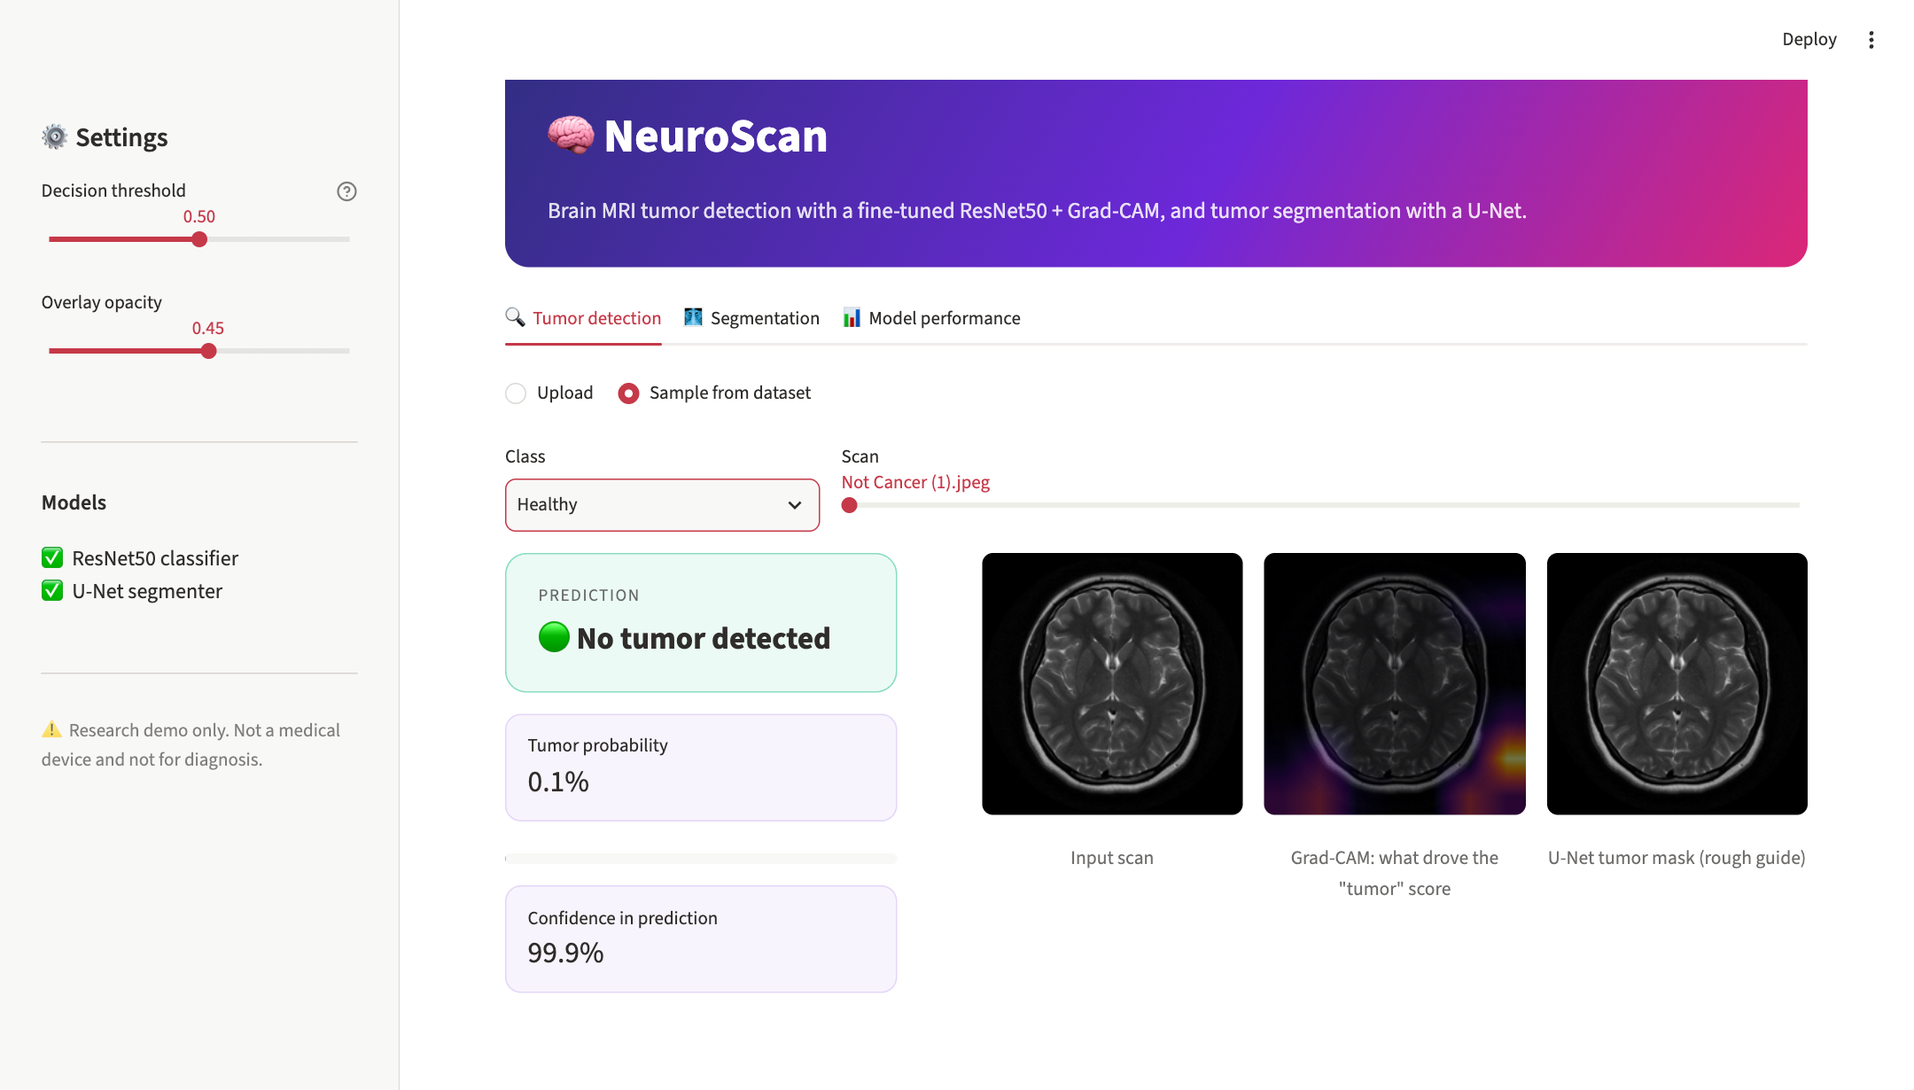
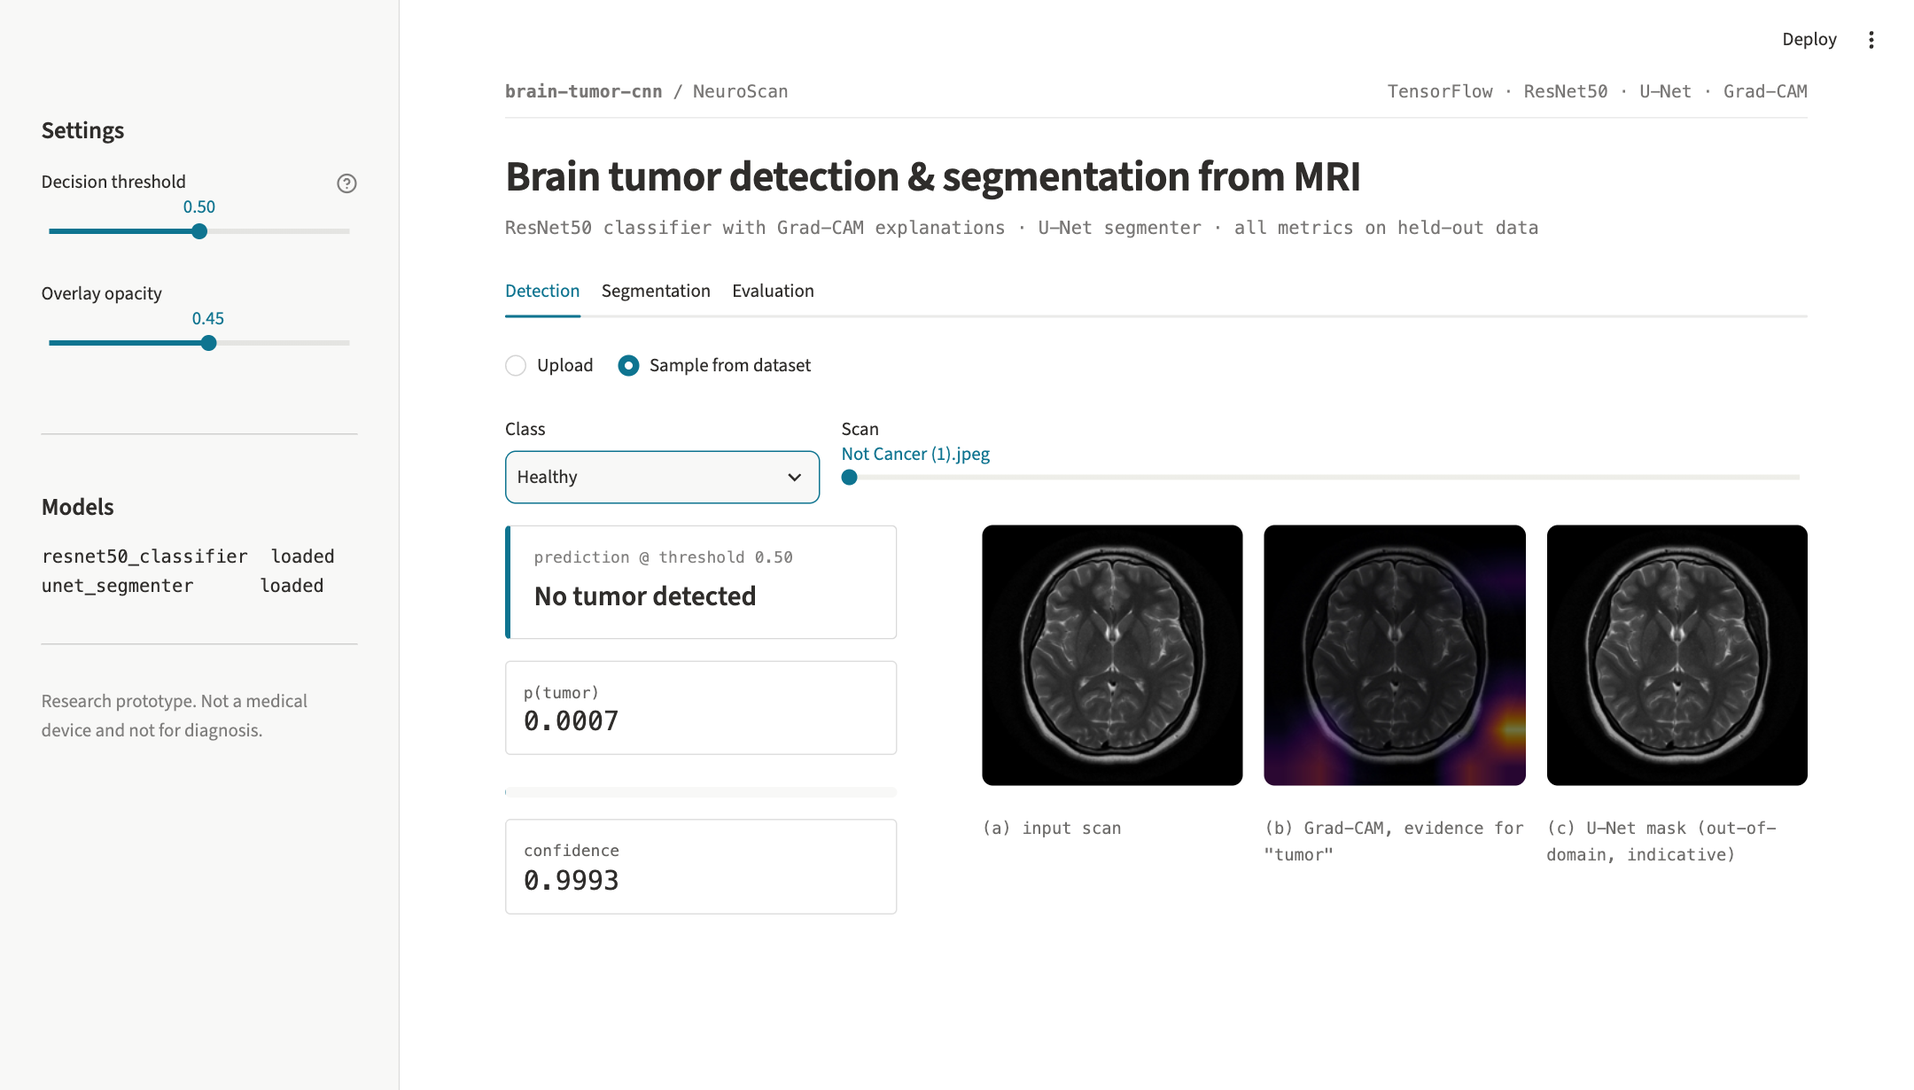
Restyle app and overview in a plain research-figure style
- Replace gradient header and emoji labels with a plain title, monospace
  metrics and lettered figure captions
- Draw masks as contours (expert white, U-Net cyan) instead of filled colormaps
- Teal accent theme via .streamlit/config.toml
- Rename tabs to Detection / Segmentation / Evaluation
- Regenerate app screenshots and overview image

diff --git a/app/streamlit_app.py b/app/streamlit_app.py
@@ -6,7 +6,7 @@ import matplotlib
 import numpy as np
 import streamlit as st
 import tensorflow as tf
-from PIL import Image
+from PIL import Image, ImageFilter
 
 ROOT = os.path.dirname(os.path.dirname(os.path.abspath(__file__)))
 sys.path.insert(0, ROOT)
@@ -18,30 +18,32 @@ UNET_PATH = os.path.join(ROOT, 'saved_models/unet_model.keras')
 RESULTS = os.path.join(ROOT, 'docs/results')
 SAMPLES = os.path.join(ROOT, 'data/download/Brain Tumor Data Set/Brain Tumor Data Set')
 LGG = os.path.join(ROOT, 'data/lgg/kaggle_3m')
+CYAN, WHITE = (34, 211, 238), (255, 255, 255)
 
-st.set_page_config(page_title='NeuroScan · Brain Tumor AI', page_icon='🧠', layout='wide')
-st.markdown("""
+st.set_page_config(page_title='NeuroScan: brain tumor detection and segmentation', layout='wide')
+MONO = '"SF Mono", "JetBrains Mono", Menlo, Consolas, monospace'
+st.markdown(f"""
 <style>
-  .block-container {padding-top: 2rem; max-width: 1250px;}
-  .hero {background: linear-gradient(120deg, #312e81 0%, #6d28d9 55%, #db2777 100%);
-         padding: 1.8rem 2rem; border-radius: 18px; color: white; margin-bottom: 1.2rem;}
-  .hero h1 {color: white; margin: 0; font-size: 2.2rem;}
-  .hero p {opacity: .85; margin: .4rem 0 0 0; font-size: 1.05rem;}
-  .verdict {border-radius: 16px; padding: 1.3rem 1.5rem; margin-bottom: 1rem; border: 1px solid;}
-  .verdict.tumor {background: rgba(219,39,119,.08); border-color: rgba(219,39,119,.45);}
-  .verdict.healthy {background: rgba(16,185,129,.08); border-color: rgba(16,185,129,.45);}
-  .verdict .label {font-size: .8rem; letter-spacing: .08em; text-transform: uppercase; opacity: .7;}
-  .verdict .value {font-size: 1.45rem; font-weight: 700; margin-top: .2rem;}
-  .caption {text-align: center; opacity: .7; font-size: .9rem; margin-top: .3rem;}
-  [data-testid="stMetricValue"] {font-size: 1.4rem;}
-  [data-testid="stMetric"] {background: rgba(109,40,217,.05); border: 1px solid rgba(109,40,217,.15);
-                            border-radius: 12px; padding: .7rem 1rem;}
-  .stTabs [data-baseweb="tab"] {font-size: 1.05rem; padding: .6rem 1.2rem;}
+  .block-container {{padding-top: 3.6rem; max-width: 1250px;}}
+  .mono {{font-family: {MONO};}}
+  .topbar {{display: flex; justify-content: space-between; font-family: {MONO}; font-size: .82rem; opacity: .65;
+            padding-bottom: .6rem; border-bottom: 1px solid rgba(128,128,128,.25);}}
+  .title {{font-size: 2rem; font-weight: 650; letter-spacing: -.015em; margin: 1.1rem 0 .2rem;}}
+  .subtitle {{font-family: {MONO}; font-size: .85rem; opacity: .65; margin-bottom: 1rem;}}
+  .verdict {{border: 1px solid rgba(128,128,128,.3); border-left: 4px solid var(--c); border-radius: 4px;
+             padding: .9rem 1.1rem; margin-bottom: 1rem;}}
+  .verdict .label {{font-family: {MONO}; font-size: .75rem; opacity: .6; text-transform: lowercase;}}
+  .verdict .value {{font-size: 1.3rem; font-weight: 600; margin-top: .15rem;}}
+  .caption {{font-family: {MONO}; font-size: .78rem; opacity: .7; margin-top: .35rem;}}
+  [data-testid="stMetric"] {{border: 1px solid rgba(128,128,128,.25); border-radius: 4px; padding: .55rem .8rem;}}
+  [data-testid="stMetricValue"] {{font-family: {MONO}; font-size: 1.25rem;}}
+  [data-testid="stMetricLabel"] p {{font-family: {MONO}; font-size: .75rem; opacity: .75;}}
+  .stTabs [data-baseweb="tab"] {{font-family: {MONO}; font-size: .88rem; padding: .5rem 1rem;}}
+  h3 {{font-weight: 600 !important; letter-spacing: -.01em;}}
 </style>
-<div class="hero">
-  <h1>🧠 NeuroScan</h1>
-  <p>Brain MRI tumor detection with a fine-tuned ResNet50 + Grad-CAM, and tumor segmentation with a U-Net.</p>
-</div>
+<div class="topbar"><span><b>brain-tumor-cnn</b> / NeuroScan</span><span>TensorFlow · ResNet50 · U-Net · Grad-CAM</span></div>
+<div class="title">Brain tumor detection &amp; segmentation from MRI</div>
+<div class="subtitle">ResNet50 classifier with Grad-CAM explanations · U-Net segmenter · all metrics on held-out data</div>
 """, unsafe_allow_html=True)
 
 
@@ -74,17 +76,27 @@ def load_metrics(name):
     return json.load(open(path)) if os.path.exists(path) else None
 
 
-def overlay(img, heat, alpha, cmap='inferno'):
+def overlay(img, heat, alpha):
     heat = np.asarray(Image.fromarray(np.uint8(heat * 255)).resize(img.size, Image.BILINEAR)) / 255.0
-    colored = matplotlib.colormaps[cmap](heat)[..., :3] * 255
-    a = alpha if cmap == 'inferno' else alpha * (heat[..., None] > 0)  # masks: tint only masked pixels
-    return Image.fromarray(np.uint8((1 - a) * np.asarray(img) + a * colored))
+    colored = matplotlib.colormaps['inferno'](heat)[..., :3] * 255
+    return Image.fromarray(np.uint8((1 - alpha) * np.asarray(img) + alpha * colored))
+
+
+def outline(img, mask, color, alpha):
+    """Translucent fill plus a crisp contour, like a figure in a paper."""
+    m = Image.fromarray(np.uint8(mask) * 255).resize(img.size, Image.NEAREST)
+    inside = np.asarray(m) > 0
+    edge = inside & ~(np.asarray(m.filter(ImageFilter.MinFilter(3))) > 0)
+    out = np.asarray(img, dtype=float).copy()
+    out[inside] = (1 - alpha * .5) * out[inside] + alpha * .5 * np.array(color)
+    out[edge] = color
+    return Image.fromarray(np.uint8(out))
 
 
 def show_images(views):
-    for col, (im, cap) in zip(st.columns(len(views)), views):
+    for i, (col, (im, cap)) in enumerate(zip(st.columns(len(views)), views)):
         col.image(im, width='stretch')
-        col.markdown(f'<div class="caption">{cap}</div>', unsafe_allow_html=True)
+        col.markdown(f'<div class="caption">({chr(97 + i)}) {cap}</div>', unsafe_allow_html=True)
 
 
 def segment(unet, img):
@@ -95,17 +107,18 @@ clf, unet = load_models()
 cls_m, seg_m = load_metrics('metrics.json'), load_metrics('segmentation_metrics.json')
 
 with st.sidebar:
-    st.header('⚙ Settings')
+    st.subheader('Settings')
     threshold = st.slider('Decision threshold', 0.05, 0.95, 0.5, 0.05,
                           help='Probability above which a scan is flagged as tumor.')
     alpha = st.slider('Overlay opacity', 0.0, 0.85, 0.45, 0.05)
     st.divider()
-    st.markdown('**Models**')
-    st.markdown(f"{'✅' if clf else '❌'} ResNet50 classifier  \n{'✅' if unet else '❌'} U-Net segmenter")
+    st.subheader('Models')
+    st.markdown(f'<div class="mono" style="font-size:.85rem">resnet50_classifier &nbsp;{"loaded" if clf else "missing"}<br>'
+                f'unet_segmenter &nbsp;&nbsp;&nbsp;&nbsp;&nbsp;{"loaded" if unet else "missing"}</div>', unsafe_allow_html=True)
     st.divider()
-    st.caption('⚠ Research demo only. Not a medical device and not for diagnosis.')
+    st.caption('Research prototype. Not a medical device and not for diagnosis.')
 
-tab_detect, tab_seg, tab_perf = st.tabs(['🔍 Tumor detection', '🩻 Segmentation', '📊 Model performance'])
+tab_detect, tab_seg, tab_perf = st.tabs(['Detection', 'Segmentation', 'Evaluation'])
 
 # ---------------------------------------------------------------- detection
 with tab_detect:
@@ -127,7 +140,7 @@ with tab_detect:
             img = Image.open(os.path.join(SAMPLES, folder, name)).convert('RGB')
 
         if img is None:
-            st.info('👆 Upload an MRI slice (JPG, PNG or TIFF) to get started.')
+            st.info('Upload an MRI slice (JPG, PNG or TIFF), or switch to a sample from the dataset.')
         else:
             img224 = img.resize((224, 224))
             with st.spinner('Analyzing scan...'):
@@ -136,18 +149,18 @@ with tab_detect:
             left, right = st.columns([1, 2], gap='large')
             with left:
                 st.markdown(f"""
-                <div class="verdict {'tumor' if is_tumor else 'healthy'}">
-                  <div class="label">Prediction</div>
-                  <div class="value">{'🔴 Tumor detected' if is_tumor else '🟢 No tumor detected'}</div>
+                <div class="verdict" style="--c: {'#be123c' if is_tumor else '#0e7490'}">
+                  <div class="label">prediction @ threshold {threshold:.2f}</div>
+                  <div class="value">{'Tumor detected' if is_tumor else 'No tumor detected'}</div>
                 </div>""", unsafe_allow_html=True)
-                st.metric('Tumor probability', f'{prob:.1%}')
+                st.metric('p(tumor)', f'{prob:.4f}')
                 st.progress(prob)
-                st.metric('Confidence in prediction', f'{(prob if is_tumor else 1 - prob):.1%}')
+                st.metric('confidence', f'{(prob if is_tumor else 1 - prob):.4f}')
             with right:
-                views = [(img224, 'Input scan'), (overlay(img224, heat, alpha), 'Grad-CAM: what drove the "tumor" score')]
+                views = [(img224, 'input scan'), (overlay(img224, heat, alpha), 'Grad-CAM, evidence for "tumor"')]
                 if unet is not None:
-                    views.append((overlay(img224, segment(unet, img).astype(float), alpha + 0.15, 'autumn'),
-                                  'U-Net tumor mask (rough guide)'))
+                    views.append((outline(img224, segment(unet, img), CYAN, alpha),
+                                  'U-Net mask (out-of-domain, indicative)'))
                 show_images(views)
 
 # ---------------------------------------------------------------- segmentation
@@ -175,23 +188,23 @@ with tab_seg:
 
         left, right = st.columns([1, 3], gap='large')
         with left:
-            st.metric('Slice Dice', f'{2 * inter / total:.2f}' if total else '1.00 (both empty)')
-            st.metric('Tumor area: expert', f'{truth.mean():.1%} of slice')
-            st.metric('Tumor area: U-Net', f'{pred.mean():.1%} of slice')
+            st.metric('slice dice', f'{2 * inter / total:.3f}' if total else '1.000 (both empty)')
+            st.metric('area, expert', f'{truth.mean():.2%}')
+            st.metric('area, U-Net', f'{pred.mean():.2%}')
         with right:
-            show_images([(img, 'MRI (T1 / FLAIR / T1-Gd as RGB)'),
-                         (overlay(img, truth.astype(float), alpha + 0.15, 'autumn'), 'Ground truth (expert)'),
-                         (overlay(img, pred.astype(float), alpha + 0.15, 'autumn'), 'U-Net prediction')])
+            show_images([(img, 'MRI, T1 / FLAIR / T1-Gd as RGB'),
+                         (outline(img, truth, WHITE, alpha), 'ground truth (expert)'),
+                         (outline(img, pred, CYAN, alpha), 'U-Net prediction')])
 
 # ---------------------------------------------------------------- performance
 with tab_perf:
     if cls_m:
-        st.subheader('Classifier · ResNet50')
+        st.subheader('Classifier: ResNet50')
         st.caption(f"{cls_m['split_sizes']['test']} held-out images. Near-duplicate scans are never split across train and test.")
         for col, (k, label, fmt) in zip(st.columns(5), [
-                ('accuracy', 'Accuracy', '{:.1%}'), ('roc_auc', 'ROC AUC', '{:.3f}'),
-                ('recall_tumor', 'Sensitivity', '{:.1%}'), ('specificity', 'Specificity', '{:.1%}'),
-                ('f1_tumor', 'F1 (tumor)', '{:.3f}')]):
+                ('accuracy', 'accuracy', '{:.3f}'), ('roc_auc', 'roc auc', '{:.3f}'),
+                ('recall_tumor', 'sensitivity', '{:.3f}'), ('specificity', 'specificity', '{:.3f}'),
+                ('f1_tumor', 'f1 (tumor)', '{:.3f}')]):
             col.metric(label, fmt.format(cls_m[k]))
         c1, c2, c3 = st.columns([1, 1, 2.2])
         c1.image(os.path.join(RESULTS, 'confusion_matrix.png'), width='stretch')
@@ -200,13 +213,13 @@ with tab_perf:
         st.image(os.path.join(RESULTS, 'gradcam_examples.png'), width='stretch')
     if seg_m:
         st.divider()
-        st.subheader('Segmenter · U-Net')
+        st.subheader('Segmenter: U-Net')
         st.caption(f"{seg_m['split_sizes']['test']} slices from held-out patients (patient-level split).")
         for col, (k, label, fmt) in zip(st.columns(5), [
-                ('dice_global', 'Dice', '{:.3f}'), ('iou_global', 'IoU', '{:.3f}'),
-                ('dice_tumor_slices', 'Dice / tumor slice', '{:.3f}'),
-                ('tumor_slice_detection_rate', 'Tumor slices found', '{:.1%}'),
-                ('empty_slice_false_positive_rate', 'False-positive slices', '{:.1%}')]):
+                ('dice_global', 'dice (global)', '{:.3f}'), ('iou_global', 'iou (global)', '{:.3f}'),
+                ('dice_tumor_slices', 'dice / tumor slice', '{:.3f}'),
+                ('tumor_slice_detection_rate', 'tumor slices found', '{:.3f}'),
+                ('empty_slice_false_positive_rate', 'fp rate, empty slices', '{:.3f}')]):
             col.metric(label, fmt.format(seg_m[k]))
         st.image(os.path.join(RESULTS, 'segmentation_examples.png'), width='stretch')
     if not (cls_m or seg_m):

diff --git a/scripts/make_overview.py b/scripts/make_overview.py
@@ -13,12 +13,13 @@ from matplotlib.patches import FancyBboxPatch
 R, UI = 'docs/results', 'docs/ui'
 cls = json.load(open(f'{R}/metrics.json'))
 seg = json.load(open(f'{R}/segmentation_metrics.json'))
-PURPLE, PINK, INK, MUTED = '#6d28d9', '#db2777', '#1f2937', '#6b7280'
+PURPLE, PINK, INK, MUTED, RULE = '#0e7490', '#be123c', '#0f172a', '#64748b', '#e2e8f0'  # teal (classifier), rose (segmenter)
+MONO = 'DejaVu Sans Mono'
 
 
 def img(ax, path, title):
     ax.imshow(plt.imread(path))
-    ax.set_title(title, fontsize=16, color=INK, pad=8, fontweight='bold')
+    ax.set_title(title, fontsize=15, color=INK, pad=8, family=MONO, loc='left')
     ax.axis('off')
 
 
@@ -26,48 +27,48 @@ fig = plt.figure(figsize=(22, 31), facecolor='white')
 gs = fig.add_gridspec(6, 6, height_ratios=[1.1, 1.2, 6.1, 3.9, 8.3, 9.2], hspace=0.16, wspace=0.08,
                       left=0.03, right=0.97, top=0.985, bottom=0.01)
 
-# header band with gradient
+# plain header: repo name, title, rule
 ax = fig.add_subplot(gs[0, :])
-grad = np.linspace(0, 1, 512)[None, :]
-cmap = matplotlib.colors.LinearSegmentedColormap.from_list('brand', ['#312e81', PURPLE, PINK])
-ax.imshow(grad, aspect='auto', cmap=cmap, extent=(0, 1, 0, 1))
-ax.text(0.02, 0.62, 'NeuroScan · Brain Tumor Detection & Segmentation', color='white',
-        fontsize=30, fontweight='bold', va='center', transform=ax.transAxes)
-ax.text(0.02, 0.25, 'ResNet50 classifier with Grad-CAM explanations · U-Net tumor segmentation · Streamlit app',
-        color='white', alpha=.9, fontsize=17, va='center', transform=ax.transAxes)
-ax.axis('off')
+ax.text(0, 0.86, 'brain-tumor-cnn / NeuroScan', family=MONO, fontsize=14, color=MUTED, va='center', transform=ax.transAxes)
+ax.text(1, 0.86, 'TensorFlow · ResNet50 · U-Net · Grad-CAM · Streamlit', family=MONO, fontsize=14, color=MUTED,
+        ha='right', va='center', transform=ax.transAxes)
+ax.axhline(0.7, color=RULE, lw=1.2)
+ax.text(0, 0.38, 'Brain tumor detection & segmentation from MRI', color=INK, fontsize=30, fontweight='bold',
+        va='center', transform=ax.transAxes)
+ax.text(0, 0.02, 'all metrics on held-out data · duplicate-aware split (classifier) · patient-level split (segmenter)',
+        family=MONO, color=MUTED, fontsize=14, va='center', transform=ax.transAxes)
+ax.set_xlim(0, 1); ax.set_ylim(0, 1); ax.axis('off')
 
 # metric cards
 ax = fig.add_subplot(gs[1, :])
 ax.set_xlim(0, 8); ax.set_ylim(0, 1); ax.axis('off')
-cards = [('Accuracy', f"{cls['accuracy']:.1%}", PURPLE), ('ROC AUC', f"{cls['roc_auc']:.3f}", PURPLE),
-         ('Sensitivity', f"{cls['recall_tumor']:.1%}", PURPLE), ('Specificity', f"{cls['specificity']:.1%}", PURPLE),
-         ('F1 (tumor)', f"{cls['f1_tumor']:.3f}", PURPLE),
-         ('Dice', f"{seg['dice_global']:.3f}", PINK), ('IoU', f"{seg['iou_global']:.3f}", PINK),
-         ('Found tumor slices', f"{seg['tumor_slice_detection_rate']:.0%}", PINK)]
+cards = [('accuracy', f"{cls['accuracy']:.3f}", PURPLE), ('roc auc', f"{cls['roc_auc']:.3f}", PURPLE),
+         ('sensitivity', f"{cls['recall_tumor']:.3f}", PURPLE), ('specificity', f"{cls['specificity']:.3f}", PURPLE),
+         ('f1 (tumor)', f"{cls['f1_tumor']:.3f}", PURPLE),
+         ('dice', f"{seg['dice_global']:.3f}", PINK), ('iou', f"{seg['iou_global']:.3f}", PINK),
+         ('tumor slices found', f"{seg['tumor_slice_detection_rate']:.3f}", PINK)]
 for i, (label, value, color) in enumerate(cards):
-    ax.add_patch(FancyBboxPatch((i + .06, .08), .88, .84, boxstyle='round,pad=0,rounding_size=.08',
-                                fc=matplotlib.colors.to_rgba(color, .07), ec=matplotlib.colors.to_rgba(color, .45), lw=1.5))
-    ax.text(i + .5, .66, label, ha='center', fontsize=14, color=MUTED)
-    ax.text(i + .5, .3, value, ha='center', fontsize=24, color=color, fontweight='bold')
-ax.text(0.06, -0.12, f"Classifier: {cls['split_sizes']['test']} held-out images, duplicate-aware split",
-        fontsize=12, color=PURPLE)
-ax.text(5.06, -0.12, f"Segmenter: {seg['split_sizes']['test']} slices from held-out patients",
-        fontsize=12, color=PINK)
+    ax.add_patch(FancyBboxPatch((i + .06, .08), .88, .84, boxstyle='round,pad=0,rounding_size=.03',
+                                fc='#fafafa', ec=RULE, lw=1.2))
+    ax.plot([i + .06, i + .06], [.08, .92], color=color, lw=3, solid_capstyle='butt')  # accent bar
+    ax.text(i + .14, .64, label, family=MONO, fontsize=13, color=MUTED)
+    ax.text(i + .14, .26, value, family=MONO, fontsize=23, color=INK)
+ax.text(0.06, -0.12, f"classifier · n={cls['split_sizes']['test']} test images", family=MONO, fontsize=12, color=PURPLE)
+ax.text(5.06, -0.12, f"segmenter · {seg['split_sizes']['test']} slices, held-out patients", family=MONO, fontsize=12, color=PINK)
 
 # app screenshots
-img(fig.add_subplot(gs[2, :3]), f'{UI}/detection_tumor.png', 'App · Tumor detection with Grad-CAM')
-img(fig.add_subplot(gs[2, 3:]), f'{UI}/segmentation.png', 'App · Segmentation vs. expert mask')
+img(fig.add_subplot(gs[2, :3]), f'{UI}/detection_tumor.png', '(a) app: detection with Grad-CAM')
+img(fig.add_subplot(gs[2, 3:]), f'{UI}/segmentation.png', '(b) app: segmentation vs. expert mask')
 
 # classifier plots
-img(fig.add_subplot(gs[3, 0]), f'{R}/confusion_matrix.png', 'Confusion matrix')
-img(fig.add_subplot(gs[3, 1]), f'{R}/roc_curve.png', 'ROC curve')
-img(fig.add_subplot(gs[3, 2:4]), f'{R}/training_curves.png', 'Classifier training')
-img(fig.add_subplot(gs[3, 4:]), f'{R}/segmentation_curves.png', 'U-Net training')
+img(fig.add_subplot(gs[3, 0]), f'{R}/confusion_matrix.png', '(c) confusion matrix')
+img(fig.add_subplot(gs[3, 1]), f'{R}/roc_curve.png', '(d) ROC curve')
+img(fig.add_subplot(gs[3, 2:4]), f'{R}/training_curves.png', '(e) classifier training')
+img(fig.add_subplot(gs[3, 4:]), f'{R}/segmentation_curves.png', '(f) U-Net training')
 
 # qualitative results
-img(fig.add_subplot(gs[4, :]), f'{R}/gradcam_examples.png', 'Grad-CAM on held-out scans: the model attends to the lesion')
-img(fig.add_subplot(gs[5, :]), f'{R}/segmentation_examples.png', 'U-Net on held-out patients: ground truth vs. prediction')
+img(fig.add_subplot(gs[4, :]), f'{R}/gradcam_examples.png', '(g) Grad-CAM on held-out scans')
+img(fig.add_subplot(gs[5, :]), f'{R}/segmentation_examples.png', '(h) U-Net on held-out patients: ground truth vs. prediction')
 
 fig.savefig('docs/overview.png', dpi=80, facecolor='white')
 print('wrote docs/overview.png')

diff --git a/README.md b/README.md
@@ -14,12 +14,12 @@ A deep learning project for binary classification and pixel-level segmentation o
 
 `streamlit run app/streamlit_app.py` opens a three-tab interface:
 
-| Tumor detection | Segmentation |
+| Detection | Segmentation |
 |---|---|
 | ![Detection: tumor](docs/ui/detection_tumor.png) | ![Segmentation](docs/ui/segmentation.png) |
-| Upload a scan or pick one from the dataset. You get a verdict, the tumor probability, a Grad-CAM heatmap and the U-Net mask. | Browse held-out LGG test patients slice by slice and compare the U-Net mask with the expert mask, with a Dice score for each slice. |
+| Upload a scan or pick one from the dataset. You get a verdict at the chosen threshold, p(tumor), a Grad-CAM heatmap and the U-Net mask outline. | Browse held-out LGG test patients slice by slice. The expert contour (white) and the U-Net contour (cyan) are shown side by side, with a Dice score for each slice. |
 | ![Detection: healthy](docs/ui/detection_healthy.png) | ![Performance](docs/ui/performance.png) |
-| Healthy scans come back clean: 0.1% tumor probability, with no strong heatmap response. | **Model performance:** test metrics, confusion matrix, ROC and training curves, plus example predictions for both models. |
+| Healthy scans come back clean: p(tumor) ≈ 0.001, with no strong heatmap response. | **Evaluation:** test metrics, confusion matrix, ROC and training curves, plus example predictions for both models. |
 
 The sidebar has an adjustable decision threshold and overlay opacity.
 
@@ -171,7 +171,7 @@ This takes about 2 hours on an M3 Pro CPU (about 4 minutes per epoch, with early
 ```
 streamlit run app/streamlit_app.py
 ```
-This opens **NeuroScan** with three tabs: tumor detection, segmentation and model performance (see [The App](#the-app-neuroscan)). Tabs whose model or dataset is missing tell you which command to run.
+This opens **NeuroScan** with three tabs: Detection, Segmentation and Evaluation (see [The App](#the-app-neuroscan)). Tabs whose model or dataset is missing tell you which command to run.
 
 ---
 
